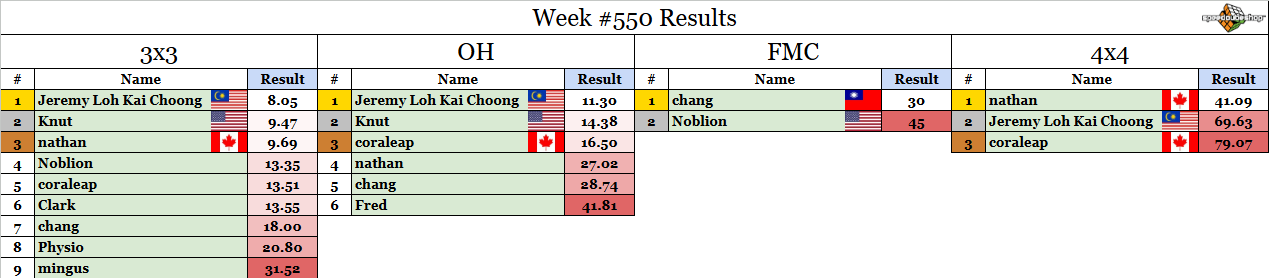
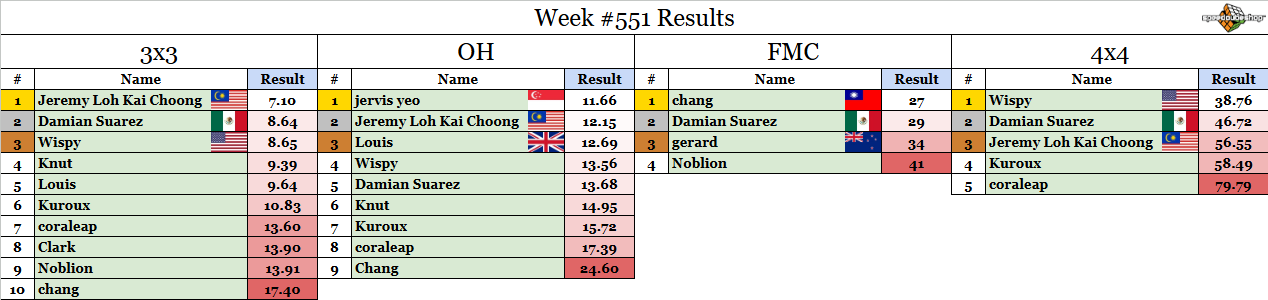
weekly comp update

diff --git a/src/weeklycomp/post.md b/src/weeklycomp/post.md
@@ -1,9 +1,9 @@
-## Weekly Competition #551 
+## Weekly Competition #552 
  
  This weekly competition is proudly sponsored by SpeedCubeShop.com 
  One competitor will be selected at random to receive a $5 SCS gift card! 
  
- Congrats to last week's winner by a random draw: **Fred**. DM me for the prize. 
+ Congrats to last week's winner by a random draw: **Noblion**. DM me for the prize. 
  
  Check whether or not you participated this week yet at [https://bit.ly/RMSWeeklyCompSummary](https://bit.ly/RMSWeeklyCompSummary)  
  
@@ -17,30 +17,31 @@
  7. The comp runs until Sunday 5pm Eastern time (more or less). Enter your times using the forms links below. 
  
 ### 3x3: [Submission Form](https://forms.gle/H5xoCWvGKnZ92fQt8) 
- 1. F' B' L' U' R' D B' L U' F2 R' U2 R F2 B2 U2 R' U2 F2 L' D' 
- 2. F' B2 D' L2 D' B2 D2 R2 B2 F2 U B2 L2 R D' F D2 F U2 L2 U2 
- 3. B2 R2 U2 B2 L2 D' U2 F2 R2 D' R2 L U R B U B L2 U F 
- 4. D R' B D B' L' D2 R2 U B2 R F2 R' F2 U2 B2 R2 F2 R' B2 
- 5. R' U2 B2 L2 B2 D R2 D2 B2 F2 D B2 L' U2 F U' R' D B' D2 
+ 1. F D R B2 R2 U2 B2 U R2 F2 U' R2 D R2 L' F' U' B2 U' R B' 
+ 2. L D2 F' D2 U2 B' U2 F' U2 L2 F U2 B2 U' L' F U' B2 U2 L2 U'
+ 3. L R2 F2 R2 B U2 R2 F L2 F D F' D R' F2 U F D2
+ 4. B U F B D2 B U' B' D' R2 D2 F2 D2 F2 R U2 R2 F2 D2 R L2 
+ 5. U2 F' L2 B' U2 D' R' B' U L2 B2 U L2 D R2 U F2 R2 F2 D'
  
 ### OH: [Submission Form](https://forms.gle/UgRLW3K1d5KkMGfM9) 
- 1. L2 D2 L2 B D2 R2 B' F' U2 F' D2 U' F' L2 U2 L B U F L2 
- 2. F' B2 L2 F2 R2 D B2 F2 D L2 U' B2 D F' L R F2 D' B2 L' F2 
- 3. U' L2 D' B2 R2 B2 U F2 U' L2 U B' R2 D B L B' R2 F2 L2 U 
- 4. U' R2 D2 L2 B' L2 D2 U2 B' U2 F L' D2 B' R' B D' F U2 
- 5. D2 R2 D' L2 U' L2 R2 U2 L2 U' F2 B' R' U' L' U L2 F U' L2 U2 
+ 1. L D R' F2 D2 F' D2 R2 U2 L2 R2 F D' U2 B' U' L' B R2
+ 2. R' B L2 B' U2 L2 F D2 U2 F D2 F' R D' B' L2 D' B R U'
+ 3. R' F2 L' D2 F' B' R B2 L' R2 F2 B2 D L2 F2 U R2 B2 U2
+ 4. R L' D' F' L' F U F2 R2 U2 L2 U2 B R2 U2 L2 U2 R' B'
+ 5. R D2 R F L' D' L' F D2 B2 U2 R D2 R L2 B2 D2 R D2 F
  
 ### FMC: [Submission Form](https://forms.gle/1P9VUgZmA1pibwvL9) 
- 1. R' U' F D' B' R2 F U2 R2 F U2 R2 D2 R2 B' R2 U' R F' R' D2 R U F' R' U' F 
+ 1. R' U' F L2 B D2 F2 U2 R2 F U2 F' R2 D2 U' F2 D L R F' U' L R' U' F
  
 ### 4x4: [Submission Form](https://forms.gle/bHNjncvEcPvFWBP2A) 
- 1. L' D' F' R2 B D' L' F2 D2 B R2 F2 R2 F' L2 B' L2 B L' U' Fw2 L Uw2 L Rw2 F' L' Fw2 L2 U2 R' U F L' Uw' F U' Rw Uw B2 D Rw' D Rw' 
- 2. B' L' D2 F' U2 R2 F' R2 D2 B' D2 F L2 D B2 R U D R' B' U Fw2 R2 Uw2 B' R' U2 Uw2 L Rw2 D2 L2 B U Uw2 B' Uw' R B2 Fw Uw B' U F Rw2 Fw R 
- 3. L2 B U2 D2 R' B2 U2 D2 R2 L F2 U2 D F U L F R2 D2 Uw2 F' R Rw2 B' Fw2 R B2 L Uw2 R2 Rw2 B' D2 Uw' F R2 Fw Uw' F R' Fw2 Uw2 Fw L' 
- 4. B R B U2 F R2 U2 B2 R2 D2 F U D2 R' B2 L2 U D L2 B2 Fw2 R2 Rw2 F D' Fw2 Rw2 F' U' F2 R2 Uw2 Fw2 L2 Rw' D' F' R B2 Rw B' Fw' U' Uw Fw2 
- 5. F' R2 F L2 U2 D2 B L2 F2 U2 R2 D2 R U' L' D2 R2 L D' B' R' Fw2 R' Rw2 B Uw2 L B Fw2 R L' Fw2 D2 R2 D2 Uw L U2 Rw' F' Uw L' D Fw Uw B2 
- 
+ 1. B U F2 L' F2 R2 D2 R U2 L' U2 D2 R' B' U2 F' U L' F' D' F2 Uw2 L B2 Uw2 F Uw2 R Uw2 F L2 F' Fw2 Rw2 Uw' F2 B' Fw2 R2 D' Rw D2 F2 Rw' F' Uw' F'
+ 2. U' R2 F2 B' D2 R' L' F2 R' U2 L2 B R' U' D' R2 F' U Uw2 Rw2 F2 R' F Rw2 Uw2 R2 L Uw2 R' Uw2 F' D Uw B U R Fw' Rw' Fw' U Fw2 R' Uw
+ 3. R2 F' R U2 L B D R' U2 D2 R' F2 U2 R L2 U2 D2 F2 L U' R' Uw2 Rw2 U D2 F2 L' Rw2 Fw2 Uw2 L2 U R Fw' U2 B' R B' Fw' Rw' Uw' Fw2 R L' Rw2 Uw
+ 4. U' R2 L F D2 F' B2 R2 F2 D2 R2 U2 R' L2 F' U B U' R L' F' Fw2 Rw2 D' R B2 D Fw2 U2 R' L' F2 L2 F' Fw' R U' Fw L2 U' Uw B2 Fw' L2 Uw L
+ 5. F' R' F2 B2 D R2 B2 U2 L2 B2 U2 L2 U' L' F' U2 L2 D R2 L U' Rw2 U' F2 B Fw2 D R2 U2 Uw2 Rw2 Uw2 R2 F Rw' D2 Rw B' U2 Uw' R2 Fw Rw2 Uw' F L
+
 ### Winning FMC solutions from last week: 
- 1. chang, 30 moves: [SOLUTION](https://bit.ly/3VIkxLQ) 
- 2. Noblion, 45 moves: [SOLUTION](https://bit.ly/3WbdcV9)
+ 1. chang, 27 moves: [SOLUTION](https://bit.ly/4mQ80RB) 
+ 2. Damian Suarez, 29 moves: [SOLUTION](https://bit.ly/4mNzG9G) 
+ 3. gerard, 34 moves: [SOLUTION](https://bit.ly/4nXuiBY) 
  
